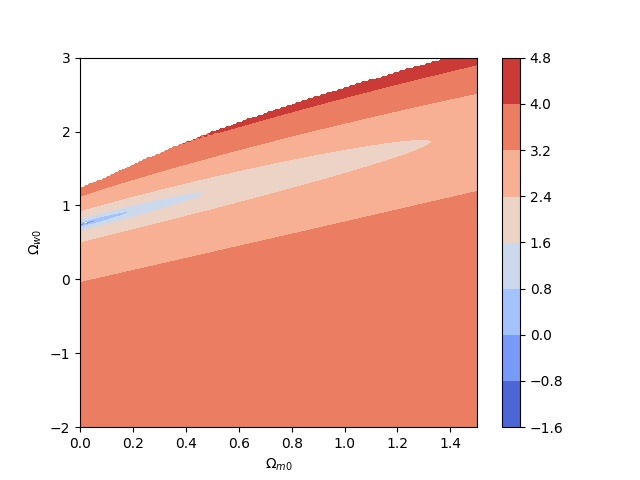
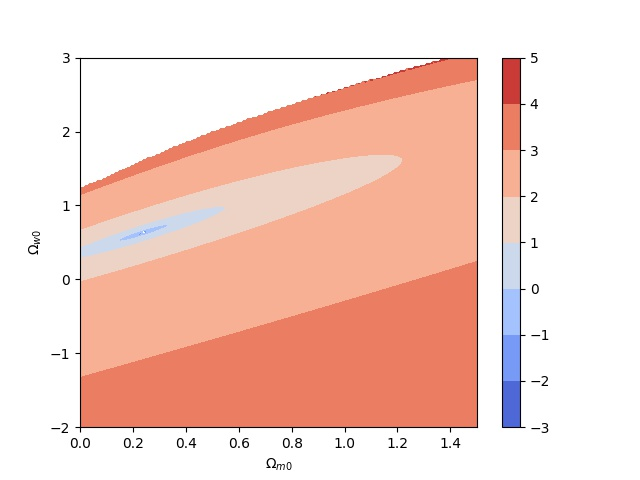
Bugfix
Found a square that was not supposed to be there, removed in line 144

diff --git a/Project1/proj1_6_class.py b/Project1/proj1_6_class.py
@@ -82,7 +82,7 @@ class CosmoProject1:
 
         k : int
           Spatial curvature parameter
-        i : {array-like}, shape = [z_samples]
+        i : {array-like}, shape = [redshift]
 
         Returns
         -------
@@ -141,7 +141,7 @@ class CosmoProject1:
 
         h = self.h0*np.sqrt(self.current_omega_m*(1+z)**3\
                           + self.current_omega_k*(1+z)**2\
-                          + self.current_omega_w*(1+z)**(3*(1+self.w)))**2
+                          + self.current_omega_w*(1+z)**(3*(1+self.w)))
         return 1/h
 
 
